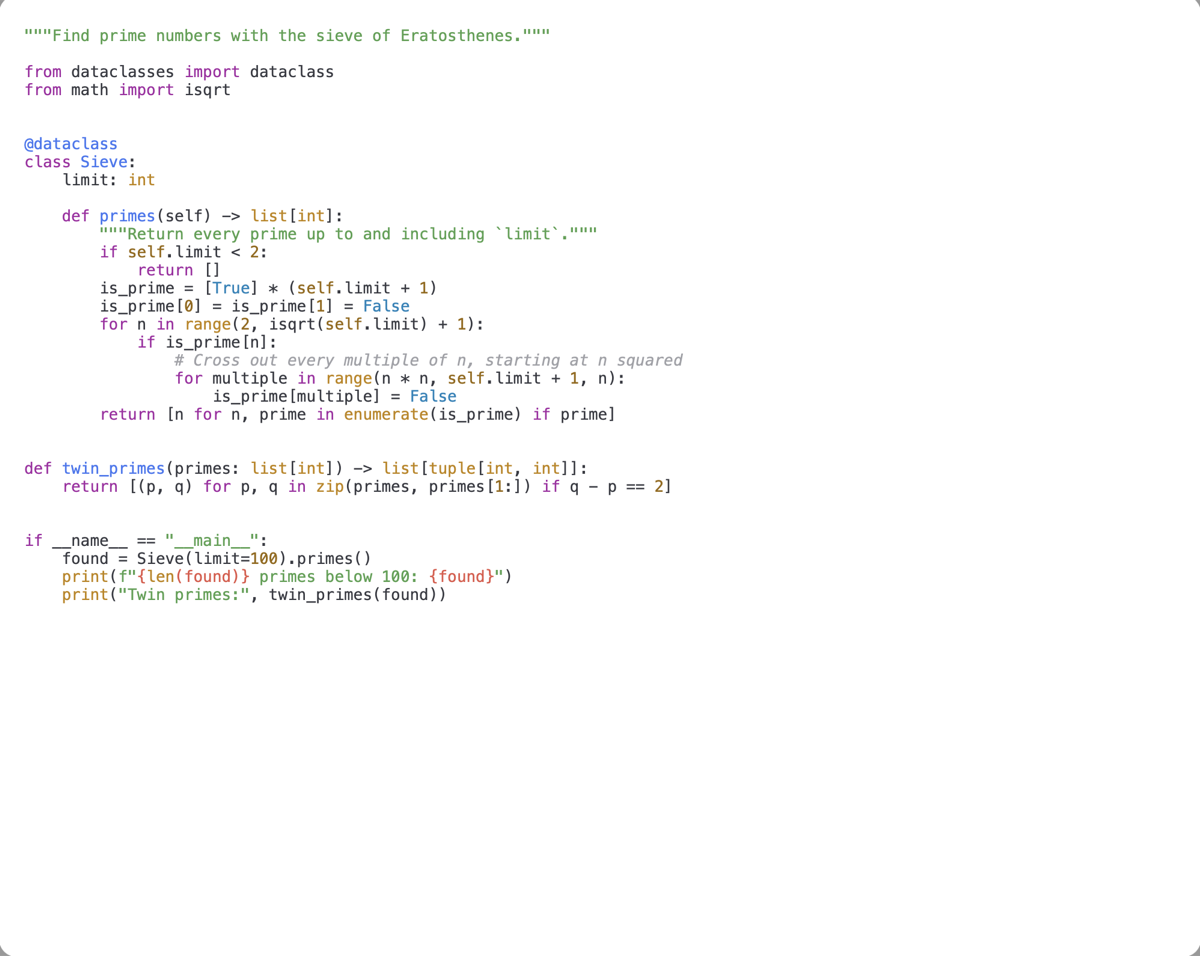
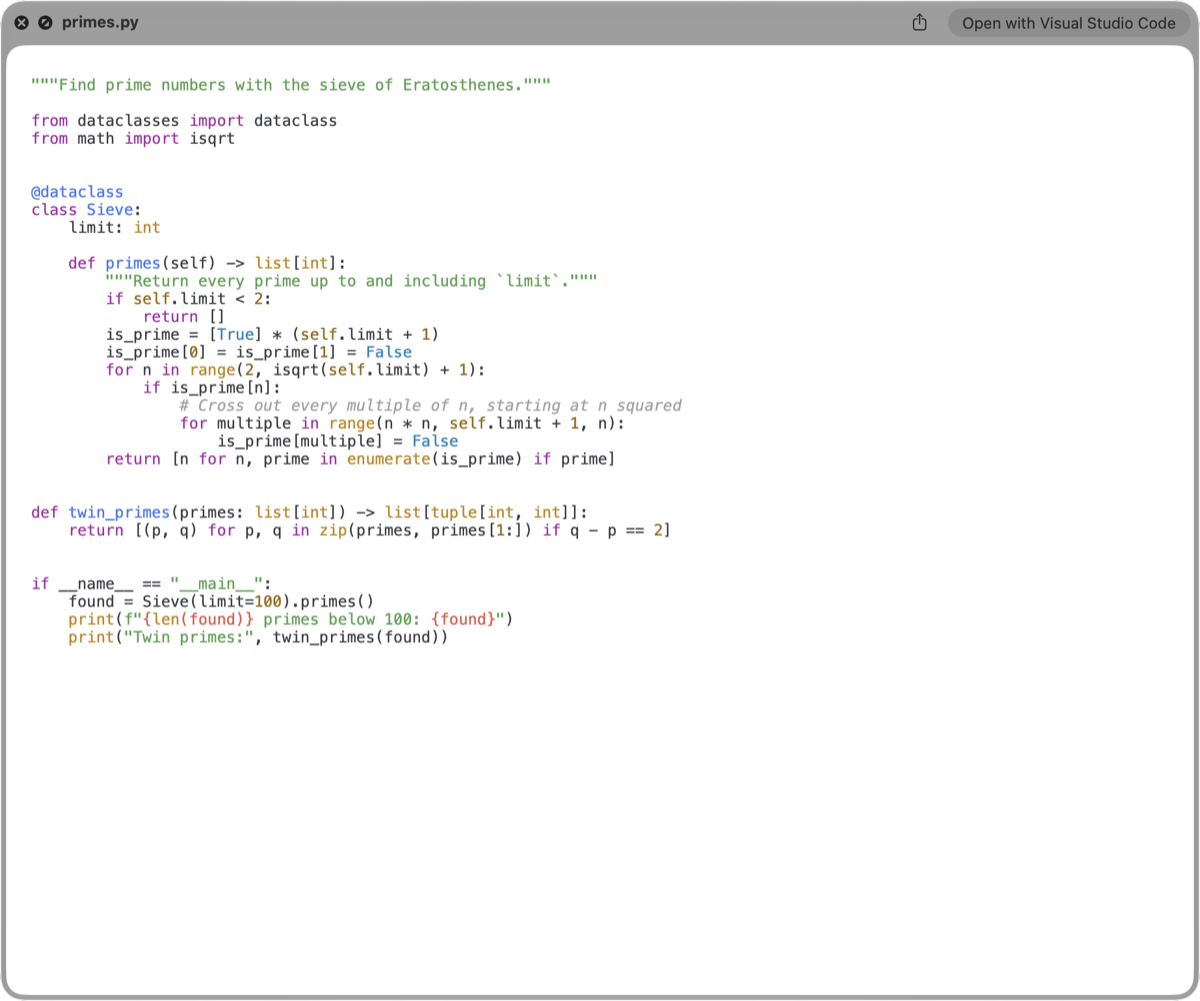
README: Install first; screenshots of Finder's Quick Look window
Retake the screenshots in Finder's own Quick Look window, so they show
the title bar and Open with button, and move Install above Fast.

Changed region(s): [[0.0, 0.0, 1.0, 1.0]]

diff --git a/README.md b/README.md
@@ -8,33 +8,6 @@ Quick Look previews and Finder thumbnails for source code, Markdown notes and Ju
 
 Quicklook Anything is based on [PreviewCode](https://github.com/smittytone/PreviewCode) by Tony Smith; see [Credits](#credits).
 
-## Fast
-
-Previews appear the moment you press Space. Quicklook Anything is tuned for speed:
-
-- **Markdown and notebooks render in under 10 ms** once Quick Look is running. The renderer page is loaded ahead of time and kept warm, so a preview only has to parse and draw the file; the first preview after the extension starts takes about 0.1 s.
-- **Code files preview in a few milliseconds.** Long files show their first screen highlighted at once and finish highlighting in the background.
-- **Long notes and notebooks** draw the first screen first and the rest a chunk at a time, so even very large files open without a wait.
-- **Math uses KaTeX**, which typesets in one synchronous pass, instead of MathJax, which Obsidian's own Quick Look extension loads for every preview.
-
-Times measured with the extensions' own logging on an Apple silicon Mac, using the sample files in [`docs/samples`](docs/samples).
-
-## Screenshots
-
-**Code** (`primes.py`, Atom One Light theme)
-
-![Quick Look preview of a Python file](docs/screenshots/code.png)
-
-**Markdown** (`notes.md`: frontmatter, math, a callout, a table, code and tasks)
-
-![Quick Look preview of a Markdown note](docs/screenshots/markdown.png)
-
-**Jupyter notebook** (`damping.ipynb`: Markdown, code cells and a plot)
-
-![Quick Look preview of a Jupyter notebook](docs/screenshots/notebook.png)
-
-The sample files are in [`docs/samples`](docs/samples), so you can try them yourself.
-
 ## Install
 
 Paste this into Terminal:
@@ -62,6 +35,33 @@ The app is signed but not notarized by Apple. macOS does not apply its download 
 ```sh
 curl -fsSL https://raw.githubusercontent.com/KehengZhu/QuicklookAnything/main/install.sh | zsh -s -- --uninstall
 ```
+
+## Fast
+
+Previews appear the moment you press Space. Quicklook Anything is tuned for speed:
+
+- **Markdown and notebooks render in under 10 ms** once Quick Look is running. The renderer page is loaded ahead of time and kept warm, so a preview only has to parse and draw the file; the first preview after the extension starts takes about 0.1 s.
+- **Code files preview in a few milliseconds.** Long files show their first screen highlighted at once and finish highlighting in the background.
+- **Long notes and notebooks** draw the first screen first and the rest a chunk at a time, so even very large files open without a wait.
+- **Math uses KaTeX**, which typesets in one synchronous pass, instead of MathJax, which Obsidian's own Quick Look extension loads for every preview.
+
+Times measured with the extensions' own logging on an Apple silicon Mac, using the sample files in [`docs/samples`](docs/samples).
+
+## Screenshots
+
+**Code**: `primes.py` in Finder's Quick Look (select it and press Space)
+
+![Quick Look preview of a Python file](docs/screenshots/code.png)
+
+**Markdown**: `notes.md`, with frontmatter, math, a callout, a table, code and tasks
+
+![Quick Look preview of a Markdown note](docs/screenshots/markdown.png)
+
+**Jupyter notebook**: `damping.ipynb`, with Markdown, code cells and a plot
+
+![Quick Look preview of a Jupyter notebook](docs/screenshots/notebook.png)
+
+The **Open with** button still names each file's usual app: Quicklook Anything never changes default apps. The sample files are in [`docs/samples`](docs/samples), so you can try them yourself.
 
 ## Usage
 
